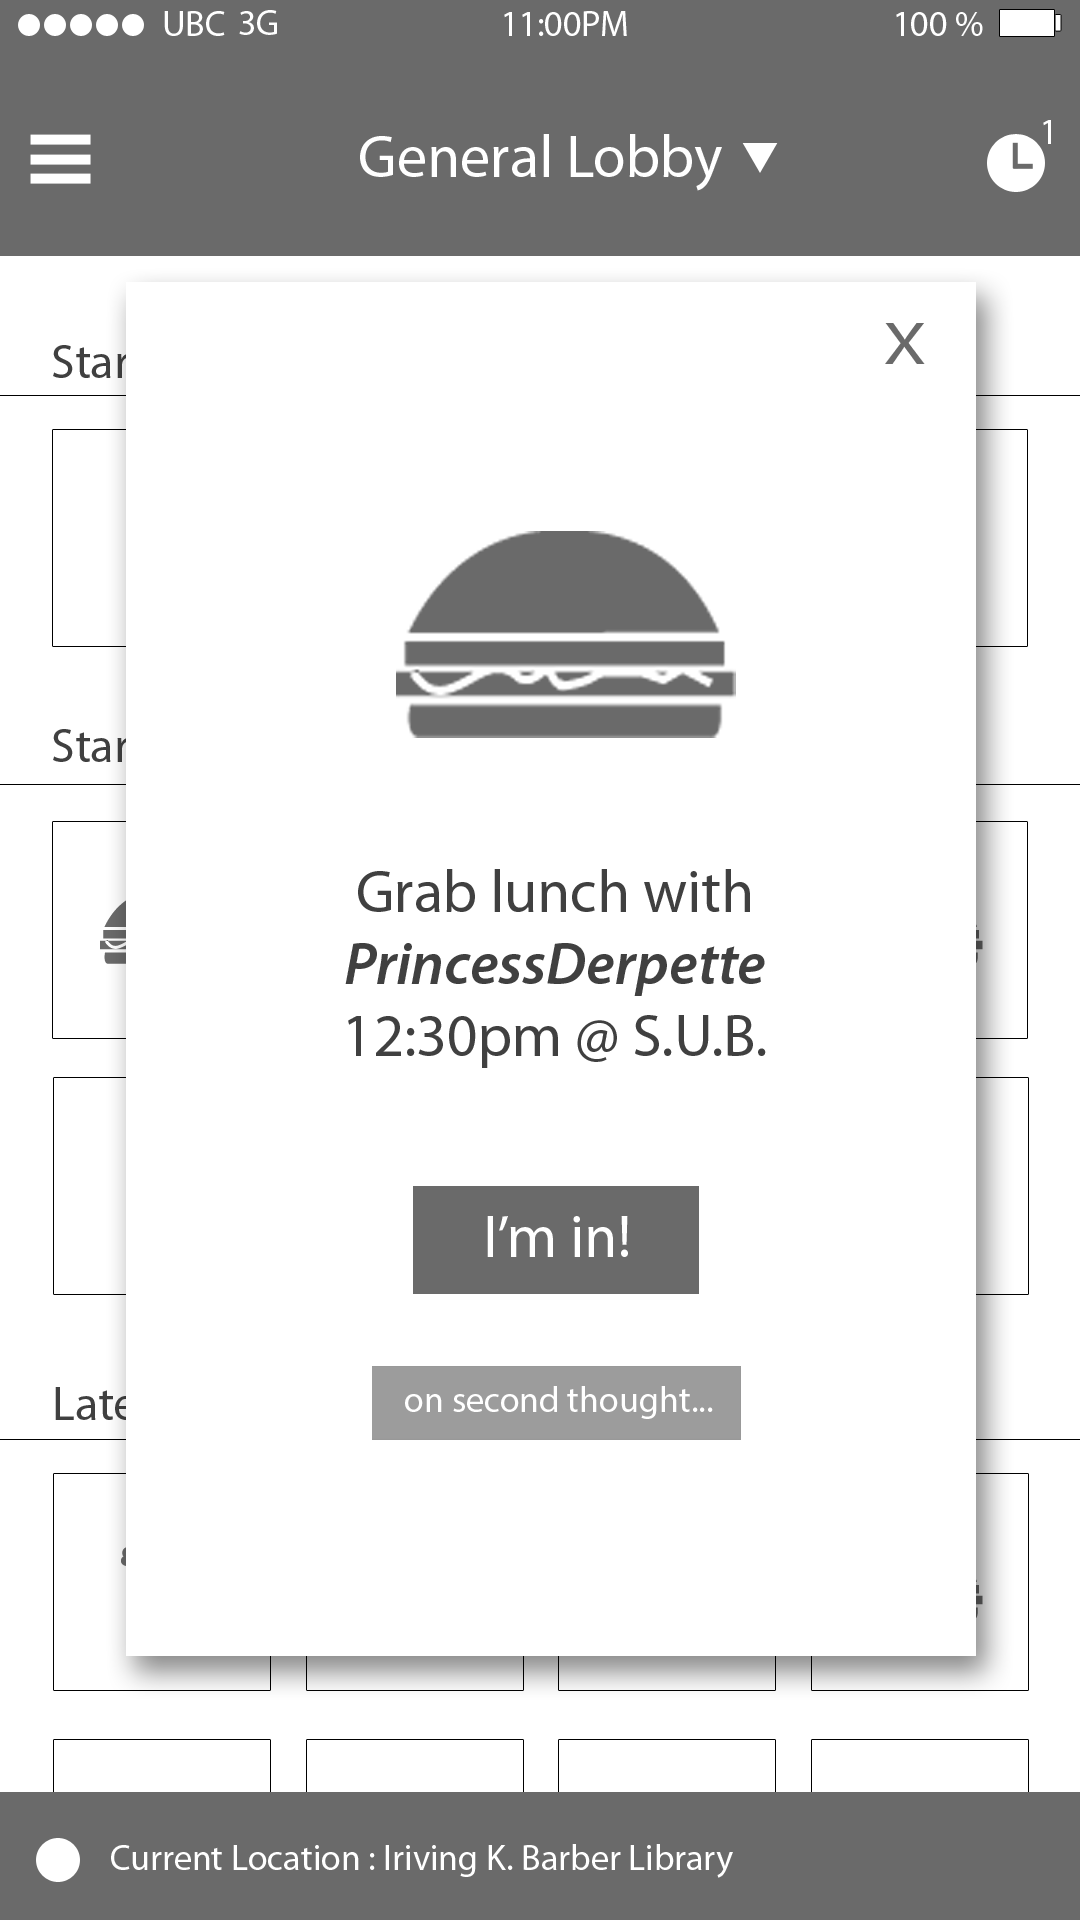
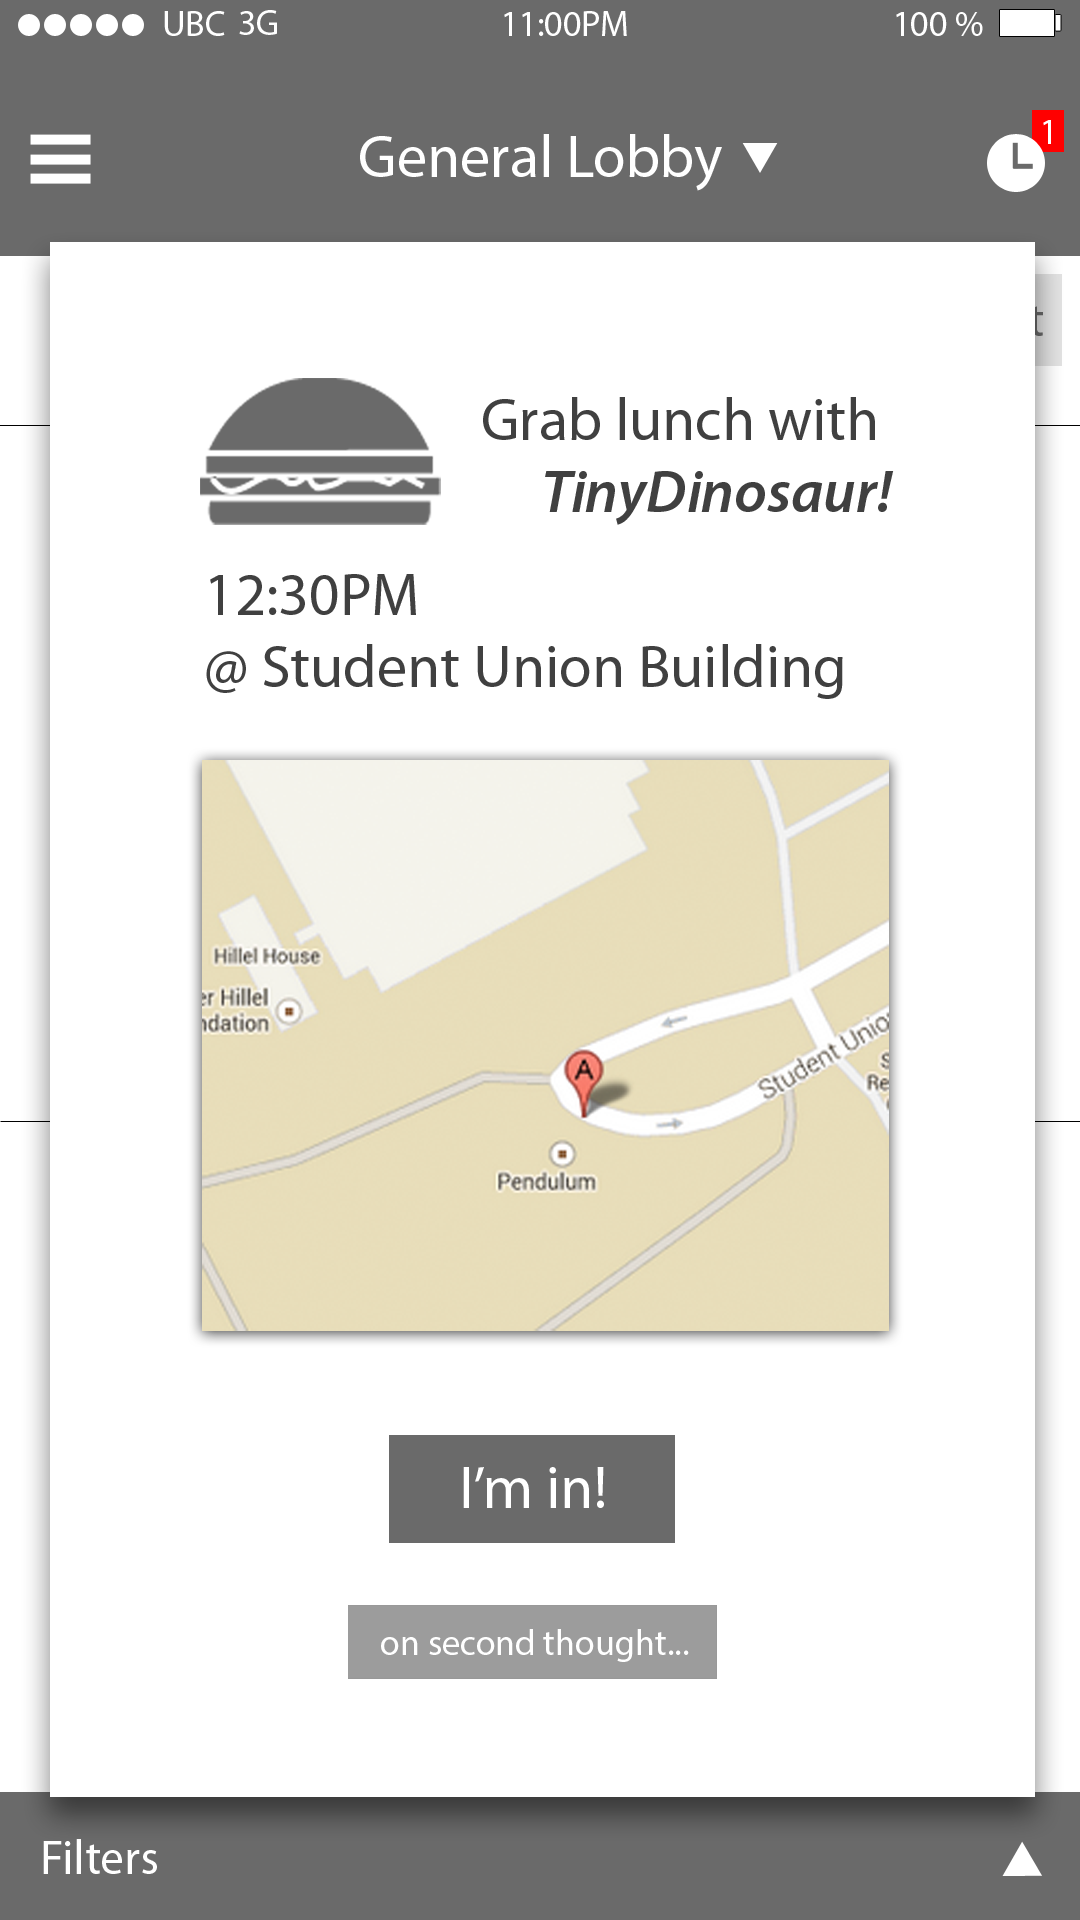
Added the new images, and side menu. Still need to fix some image names

diff --git a/home.html b/home.html
@@ -16,6 +16,9 @@
 	<div id="overlayImageBlock">
 	</div>
 
+	<div id="overlayImageBlockRight">
+	</div>
+
 	<div id="textAreas">
 		<input id='loginPageUsername'>
 		<input type="password" id='loginPagePassword'>
@@ -23,33 +26,32 @@
 
 	<!-- map for login page includes: loginButton, forgot password and Register-->
 	<map name="loginPage">
-		<area title="mainLobby" shape="rect" coords="27,490,93,522" href="#">
-		<area title="mainLobby" shape="rect" coords="26,560,113,594" href="#">
+		<area title="mainLobby" shape="rect" coords="27,520,200,555" href="#">
+		<area title="register" shape="rect" coords="27,618,200,657" href="#">
 	</map>
 
 	<!-- map for main lobby includes: mainMebu button, Lobby dropdown, join Event -->
 	<map name="mainLobby">
 		<area title="mainMenu" shape="rect" coords="5, 35, 67, 90" href="#">
 		<area title="generalLobbyDropdown" shape="rect" coords="130, 50, 310, 76" href="#">
-		<area title="joinEventDialogue" shape="rect" coords="20, 168, 105, 253" href="#">
-		<area title="upcomingEventsDetailed" shape="rect" coords="374, 47, 414, 80" href="#">
+		<area title="joinEventDialogue" shape="rect" coords="20, 195, 105, 276" href="#">
+		<area title="upcomingEvents" shape="rect" coords="374, 47, 414, 80" href="#">
 	</map>
 
 	<!-- map for mainMenu includes: outside of menu, Group, Account Settings, Help-->
 	<map name="mainMenu">
 		<area title="mainLobby" shape="rect" coords="338, 0, 421, 747" href="#">
-		<area title="createGroup" shape="rect" coords="0, 80, 337, 142" href="#">
-		<area title="accountSettings" shape="rect" coords="0, 142, 337, 218" href="#">
-		<area title="help" shape="rect" coords="0, 218, 337, 294" href="#">
+		<area title="searchGroups" shape="rect" coords="0, 100, 325, 173" href="#">
+		<area title="accountSettings" shape="rect" coords="0, 173, 325, 240" href="#">
 	</map>
 
 	<!-- map for joinEventDialogue includes: the X -->
 	<map name="joinEventDialogue">
-		<area title="mainLobby" shape="rect" coords="335, 117, 365, 144" href="#">
+		<area title="mainLobby" shape="rect" coords="136, 625, 278, 654" href="#">
 	</map>
 
 	<!-- map for createGroup includes: back button -->
-	<map name="createGroup">
+	<map name="searchGroups">
 		<area title="mainLobby" shape="rect" coords="7, 40, 35, 80" href="#">
 	</map>
 
@@ -59,7 +61,7 @@
 	</map>
 
 	<!-- map for upcomingEventDetails includes: back button -->
-	<map name="upcomingEventsDetailed">
+	<map name="upcomingEvents">
 		<area title="mainLobby" shape="rect" coords="0, 0, 88, 746" href="#">
 	</map>
 

diff --git a/meetup.js b/meetup.js
@@ -18,7 +18,8 @@ function setup() {
 */
 function navigation(target) {
 	validTargets = ["mainLobby", "mainMenu", "joinEventDialogue", "createGroup", "accountSettings", 
-		"generalLobbyDropdown", "upcomingEventsDetailed"];
+		"generalLobbyDropdown", "upcomingEvents", "register", "searchGroups",
+		"accountSettings"];
 
 	if ($.inArray(target, validTargets)!= -1 && target.length != 0){
 		changeScreen(target);
@@ -32,6 +33,7 @@ function clearPage() {
 	$('#textAreas').html("");
 	$('.img').attr('usemap', '');
 	//$('#overlayImageBlock').html("");
+	//$('#overlayImageBlockRight').html("");
 }
 
 /**
@@ -61,7 +63,7 @@ function changeScreen(title) {
 		// load main menu into overlay block
 
 		// make sure menu is off screen initially
-		$('#overlayImageBlock').css('left', '-500px');
+		//$('#overlayImageBlock').css('left', '-500px');
 		$('#overlayImageBlock').html("<img class='img' src = '" + imageUrl + "'>");
 		$('.img').attr('usemap', title);
 
@@ -69,9 +71,30 @@ function changeScreen(title) {
 		$("#overlayImageBlock").animate({
 			left:'0px'
 		});
-	} else {
+	} else if (title == "upcomingEvents") {
+		// load main menu into overlay block
+
+		// make sure menu is off screen initially
+		//$('#overlayImageBlockRight').css('right', '-500px');
+		$('#overlayImageBlockRight').html("<img class='img' src = '" + imageUrl + "'>");
+		$('.img').attr('usemap', title);
 
 		// anime menu to scroll out
+		$("#overlayImageBlockRight").animate({
+			width:'338px'
+		});
+	} else {
+		// anime menu to scroll out
+		$("#overlayImageBlockRight").animate({
+			right:'990px',
+			width: '0px'
+		}, { complete:function() {
+				$(this).html("");
+			}
+		});
+		
+		//$('#overlayImageBlockRight').html("");
+
 		$("#overlayImageBlock").animate({
 			left:'-500px'
 		});

diff --git a/meetup.css b/meetup.css
@@ -17,6 +17,18 @@ div#overlayImageBlock img{
 	height: 747px;
 }
 
+
+#overlayImageBlockRight {
+	height: 747px;
+	position: absolute;
+	top: 0px;
+	width: 0px;
+	right: 990px;
+}
+div#overlayImageBlockRight img{
+	height: 747px;
+}
+
 div img{
 	height: 100%;
 }
